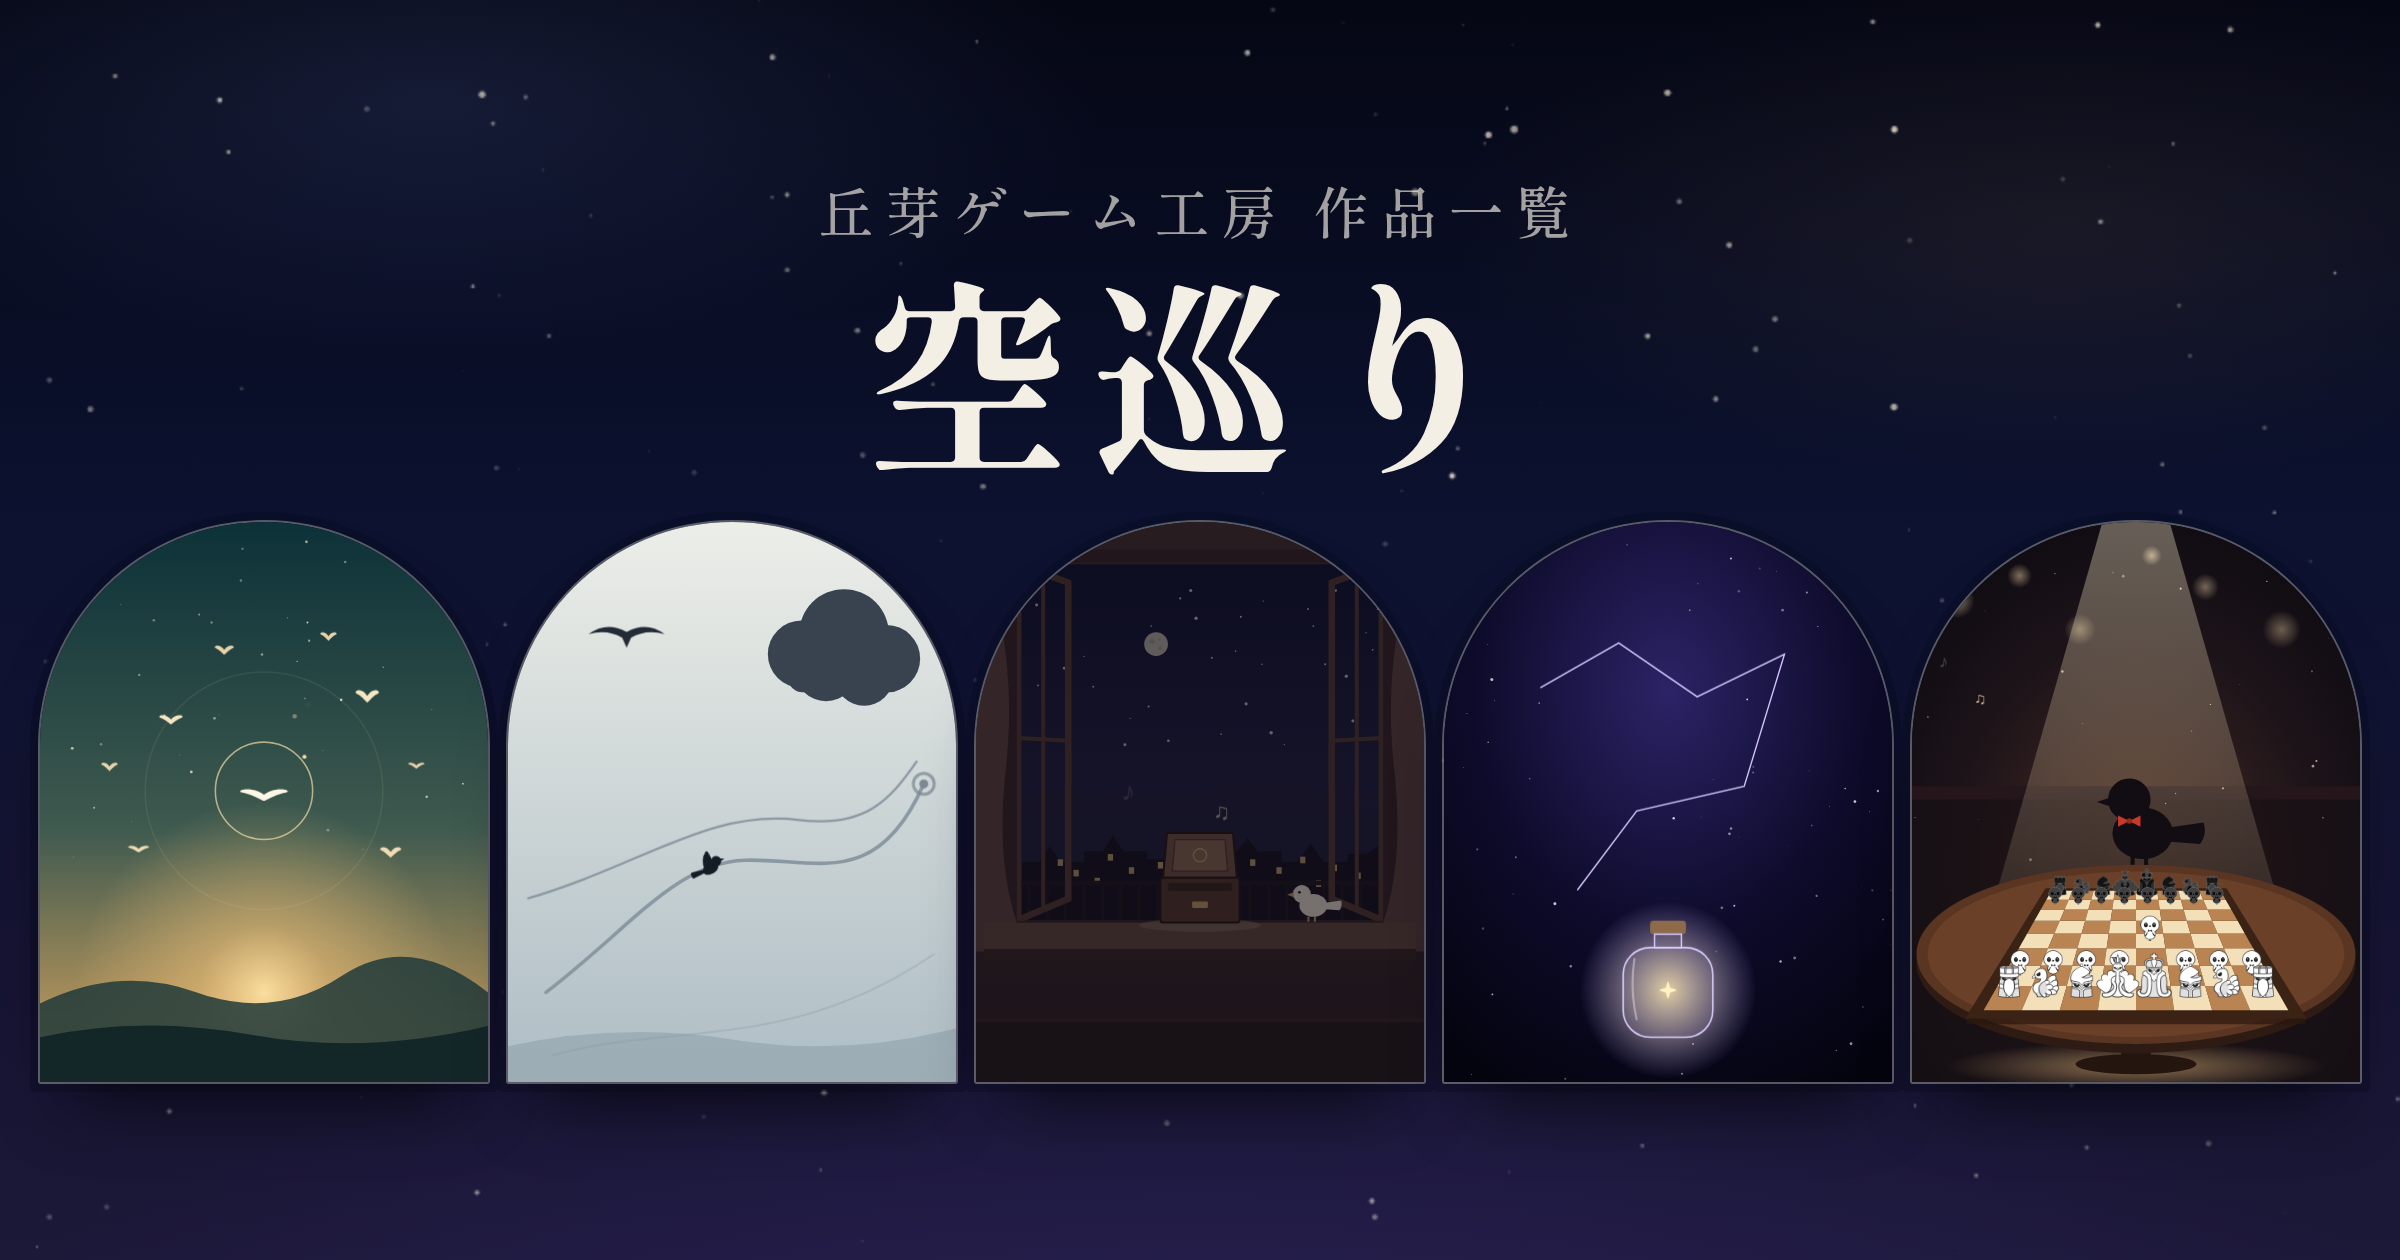
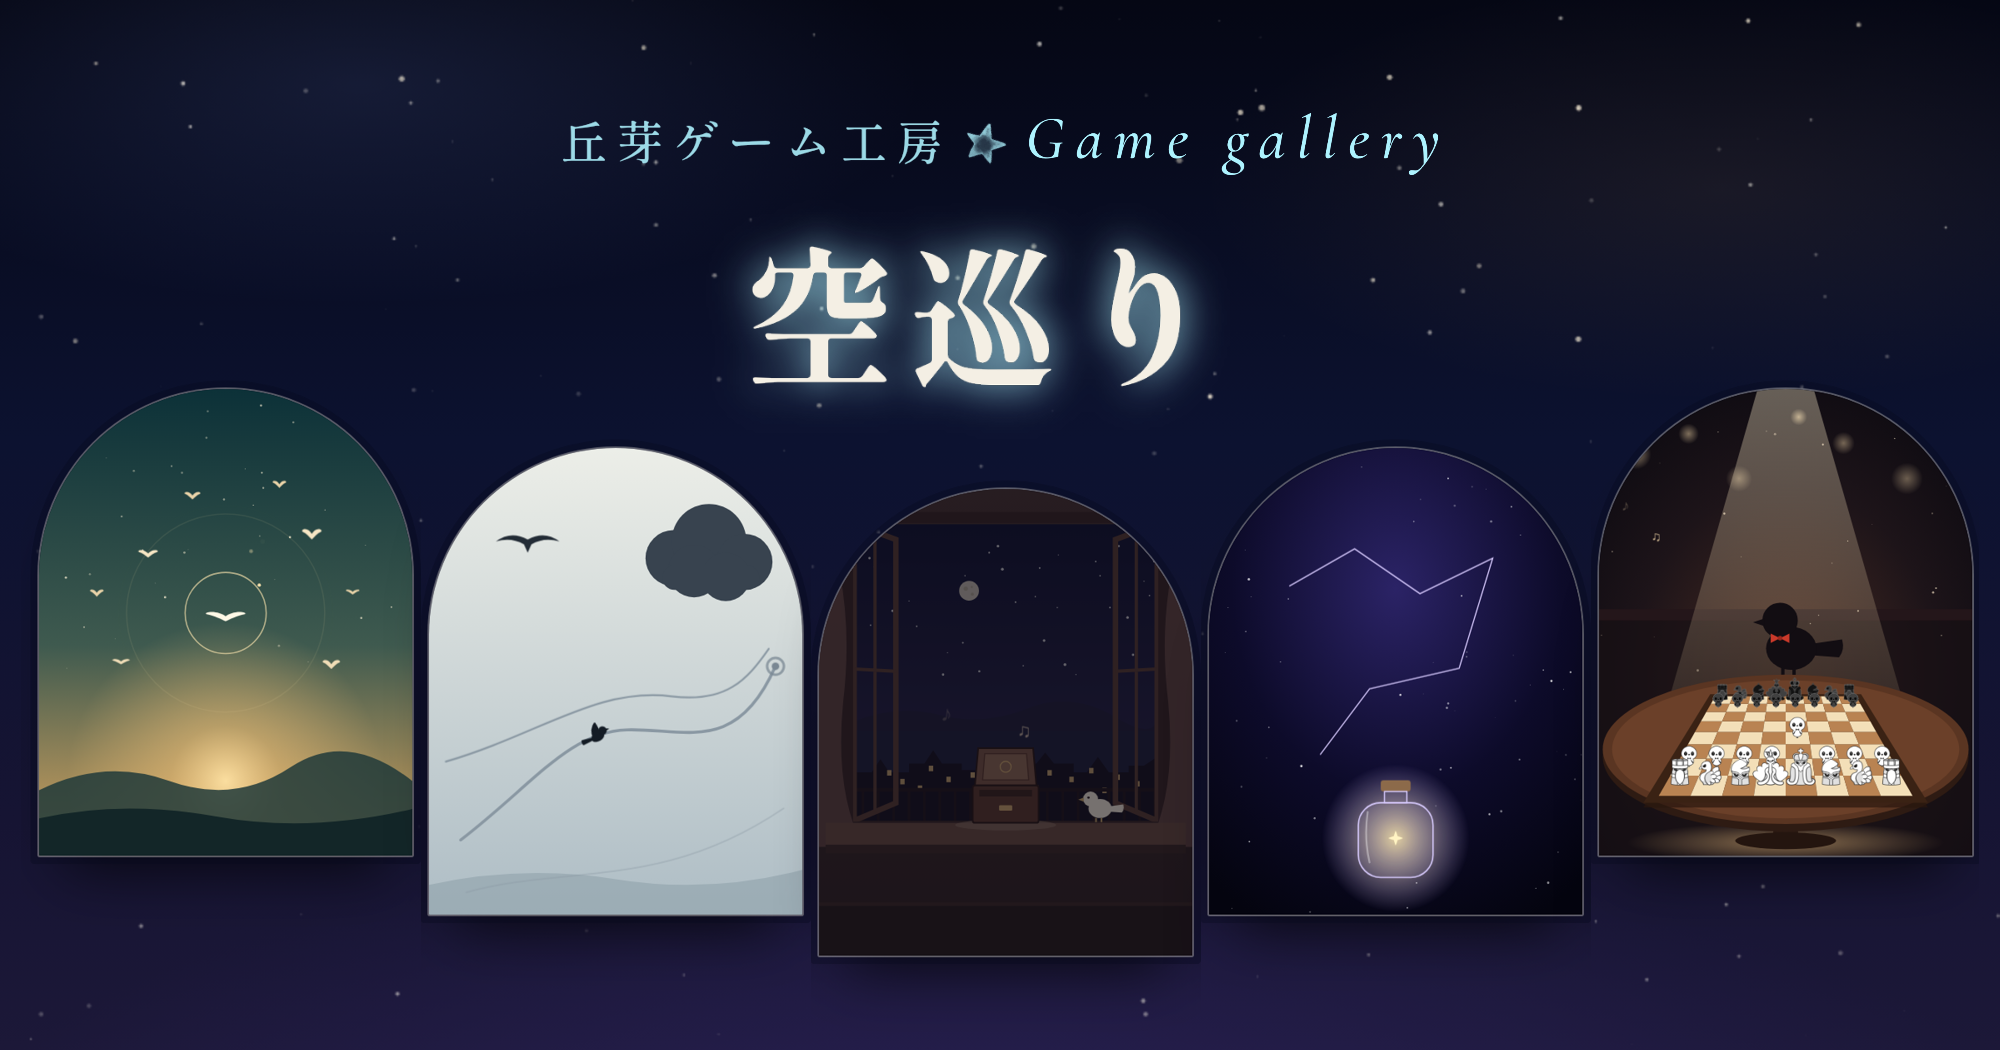
シェアカードとホーム画面アイコンを更新
採用デザインのPNGを og:image と apple-touch-icon に設定

diff --git a/homescreen.html b/homescreen.html
@@ -10,14 +10,17 @@
 <meta property="og:description" content="ゲームをスマートフォンのホーム画面に追加して、アプリのように遊ぶ方法。iPhone・Android対応。">
 <meta property="og:type" content="website">
 <meta property="og:url" content="https://mikookame.github.io/game-gallery/homescreen.html">
-<meta property="og:image" content="https://mikookame.github.io/game-gallery/og.png">
-<meta property="og:image:width" content="2400">
-<meta property="og:image:height" content="1260">
+<meta property="og:image" content="https://mikookame.github.io/game-gallery/og.png?v=2">
+<meta property="og:image:width" content="2000">
+<meta property="og:image:height" content="1050">
 <meta property="og:locale" content="ja_JP">
 <meta name="twitter:card" content="summary_large_image">
 <meta name="twitter:title" content="ホーム画面に追加 — 空巡り">
 <meta name="twitter:description" content="ゲームをスマートフォンのホーム画面に追加して、アプリのように遊ぶ方法。iPhone・Android対応。">
-<meta name="twitter:image" content="https://mikookame.github.io/game-gallery/og.png">
+<meta name="twitter:image" content="https://mikookame.github.io/game-gallery/og.png?v=2">
+<link rel="apple-touch-icon" sizes="180x180" href="apple-touch-icon.png">
+<link rel="icon" type="image/png" sizes="192x192" href="icon-192.png">
+<link rel="icon" type="image/png" sizes="512x512" href="icon-512.png">
 <meta name="theme-color" content="#070a1c">
 <link rel="preconnect" href="https://fonts.googleapis.com">
 <link rel="preconnect" href="https://fonts.gstatic.com" crossorigin>

diff --git a/index.html b/index.html
@@ -10,14 +10,17 @@
 <meta property="og:description" content="風と、歌と、星をめぐる五つの小さな旅。自作ゲームの展示室。">
 <meta property="og:type" content="website">
 <meta property="og:url" content="https://mikookame.github.io/game-gallery/">
-<meta property="og:image" content="https://mikookame.github.io/game-gallery/og.png">
-<meta property="og:image:width" content="2400">
-<meta property="og:image:height" content="1260">
+<meta property="og:image" content="https://mikookame.github.io/game-gallery/og.png?v=2">
+<meta property="og:image:width" content="2000">
+<meta property="og:image:height" content="1050">
 <meta property="og:locale" content="ja_JP">
 <meta name="twitter:card" content="summary_large_image">
 <meta name="twitter:title" content="空巡り — 丘芽美湖 Game Exhibition">
 <meta name="twitter:description" content="風と、歌と、星をめぐる五つの小さな旅。自作ゲームの展示室。">
-<meta name="twitter:image" content="https://mikookame.github.io/game-gallery/og.png">
+<meta name="twitter:image" content="https://mikookame.github.io/game-gallery/og.png?v=2">
+<link rel="apple-touch-icon" sizes="180x180" href="apple-touch-icon.png">
+<link rel="icon" type="image/png" sizes="192x192" href="icon-192.png">
+<link rel="icon" type="image/png" sizes="512x512" href="icon-512.png">
 <meta name="theme-color" content="#070a1c">
 <link rel="preconnect" href="https://fonts.googleapis.com">
 <link rel="preconnect" href="https://fonts.gstatic.com" crossorigin>
